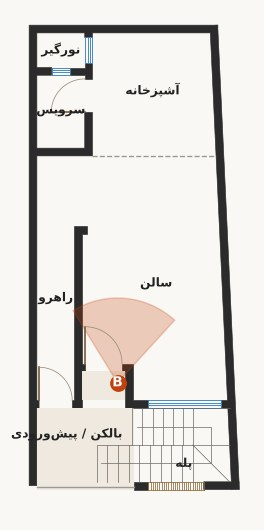
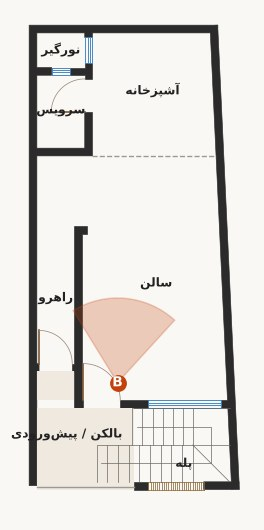
Karbala 5.70: recess the corridor door 1 m (living door back in place); corridor 102x585
Claude-Session: https://claude.ai/code/session_0113K5N22RNaozfHWJmS9D7A

diff --git a/karbala-570/index.html b/karbala-570/index.html
@@ -156,10 +156,10 @@ footer{padding:28px 0 calc(28px + env(safe-area-inset-bottom));color:var(--mut);
 const IMG='img/';
 const R={A:'r_A.jpg',B:'r_B.jpg',C:'r_C.jpg',D:'r_D.jpg',E:'r_E.jpg',F:'r_F.jpg',G:'r_G.jpg'};
 const FL={A:'1',B:'1',C:'1',D:'1',E:'1',F:'g',G:'g'};
-const CAM={A:[330,1200,330,300,74],B:[240,290,330,1240,74],C:[72,300,72,906,62],D:[95,932,75,1125,100],E:[280,10,60,221,96],F:[200,205,440,60,100],G:[60,28,200,230,100]};
+const CAM={A:[330,1200,330,300,74],B:[240,290,330,1240,74],C:[72,360,72,906,62],D:[95,932,75,1125,100],E:[280,10,60,221,96],F:[200,205,440,60,100],G:[60,28,200,230,100]};
 const ROOMS={g:[['entry',102,130],['corr',72,520],['liv',345,560],['kit',335,1085],['wc',86,1030],['well',86,1195],['stair',330,70],['wcs',482,120]],
  '1':[['bal',102,150],['corr',72,520],['liv',345,560],['kit',335,1085],['wc',86,1030],['well',86,1195],['stair',420,70]]};
-const RSUB={corr:'102 × 685',wc:'130 × 198',well:'130 × 94',bal:'264 × 221'};
+const RSUB={corr:'102 × 585',wc:'130 × 198',well:'130 × 94',bal:'264 × 221'};
 const RN={fa:{entry:'ورودی نیمهباز',corr:'راهرو',liv:'سالن',kit:'آشپزخانه',wc:'سرویس',well:'نورگیر',stair:'پله',wcs:'سرویس زیر پله',bal:'بالکن / پیشورودی',street:'خیابان / ورودی'},
  ar:{entry:'مدخل شبه مفتوح',corr:'الممر',liv:'الصالة',kit:'المطبخ',wc:'الحمّام',well:'المنور',stair:'الدرج',wcs:'حمّام تحت الدرج',bal:'الشرفة / ما قبل المدخل',street:'الشارع / المدخل'},
  en:{entry:'Semi-open entry',corr:'Corridor',liv:'Living',kit:'Kitchen',wc:'WC',well:'Light well',stair:'Stair',wcs:'WC under stair',bal:'Balcony / pre-entry',street:'Street / entrance'}};
@@ -182,12 +182,12 @@ fa:{dir:'rtl',name:'فارسی',brand:'ArchTverse · کربلا',title:'خانه
  nav:{facts:'در یک نگاه',plans:'پلانها',design:'زبان طراحی',views:'فضاهای داخلی',facade:'نما',model:'مدل سهبعدی'},
  facts_t:'پروژه در یک نگاه',facts:[['۵٫۷۰ × ۱۲٫۸۴','ابعاد زمین بیرونبهبیرون (متر)'],['۳ طبقه','همکف + طبقهٔ اول و دوم تیپ'],['۳۰۰ + ۲۰','کف تا زیر سقف + بتن سقف (سانتیمتر)'],['۲۱ سانت','ضخامت دیوارها (برداشت ۲۰ تا ۲۲)'],['۱ نما','فقط جبههٔ جلو؛ سمت چپ بدون همسایه'],['۱۷ پله','پلهٔ U شکل مرمر تا بام، با خرپشته']],
  plans_t:'پلانها',plans_s:'طبقه را انتخاب کنید و روی نقطههای دید بزنید.',pg:'همکف',p1:'طبقهٔ اول و دوم (تیپ)',
- pgL:['ورودی نیمهباز با درِ فلزی مشکی نردهای؛ درِ راهرو و درِ سالن که ۱ متر عقبتر در یک تورفتگی است','پلهٔ مرمر کنار نما با میلههای برنزی یکسره تا بام','سرویس زیر پله','راهرو ۱۰۲ سانتی که در انتها به سالن میچرخد','آشپزخانه، سرویس ۱۳۰ × ۱۹۸ و نورگیر ۱۳۰ × ۹۴ در عقب'],
- p1L:['بالکن / پیشورودی نیمهباز ۲۶۴ × ۲۲۱ با نردهٔ شیشهای ۱۱۰؛ درِ سالن ۱ متر عقبتر در تورفتگی','پنجرهٔ ۲ متری سالن رو به چاه پله','سالن با دیوار تلویزیون روی دیوار همسایه','آشپزخانهٔ L شکل با سرامیک تا سقف','درها ۲۸۰؛ پنجرههای داخلی از ۹۰ تا سقف'],
+ pgL:['ورودی نیمهباز با درِ فلزی مشکی نردهای؛ درِ سالن و درِ راهرو که ۱ متر عقبتر در یک تورفتگی است','پلهٔ مرمر کنار نما با میلههای برنزی یکسره تا بام','سرویس زیر پله','راهرو ۱۰۲ سانتی (۱ متر کوتاهتر بهخاطر تورفتگی در) که در انتها به سالن میچرخد','آشپزخانه، سرویس ۱۳۰ × ۱۹۸ و نورگیر ۱۳۰ × ۹۴ در عقب'],
+ p1L:['بالکن / پیشورودی نیمهباز ۲۶۴ × ۲۲۱ با نردهٔ شیشهای ۱۱۰؛ درِ راهرو ۱ متر عقبتر در تورفتگی','پنجرهٔ ۲ متری سالن رو به چاه پله','سالن با دیوار تلویزیون روی دیوار همسایه','آشپزخانهٔ L شکل با سرامیک تا سقف','درها ۲۸۰؛ پنجرههای داخلی از ۹۰ تا سقف'],
  legend:'نقطههای چشمکزن جای دید هر فضاست و مخروط، جهت نگاه را نشان میدهد؛ روی نقطه بزنید تا وارد همان زاویه شوید.',viewsOn:'فضاهای این طبقه:',
  design_t:'زبان طراحی: نئوکلاسیک گرم',design:[['فضاهای داخلی','دیوار سفید گرم و گریج، قاببندی ظریف فقط روی دیوارهای تأکیدی، کف سرامیک طرح مرمر ۶۰ × ۶۰'],['سقفها','سالن: سقف کاذب مستطیلی با گلویی و نور مخفی. آشپزخانه: سقف ساده با باکس جداکننده. سرویس: ۲۷۰'],['فضاهای نیمهباز','ورودی، پله و بالکن: سنگ، فلز برنزی تیره، سقف چوبی و نور توکار']],
  views_t:'فضاهای داخلی',views_s:'حرف هر فضا را بزنید یا تصویر را بکشید.',view:'دید',fl:{'1':'طبقهٔ اول','g':'همکف'},
- V:{A:['سالن','از آشپزخانه رو به جلو',['تلویزیون روی دیوار همسایه، بدون بازشو','پنجرهٔ ۲۰۰ سانتی رو به چاه پله','درِ ورودی ۱۰۰ × ۲۸۰ و دهانهٔ ۱۹۱ به راهرو']],B:['سالن و آشپزخانه','از ورودی رو به آشپزخانه',['آشپزخانه روی دیوار پشت و راست، سرامیک تا سقف','چپ: دهانهٔ راهرو، درِ سرویس، پنجرهٔ نورگیر','دیوار تلویزیون سمت راست']],C:['راهرو','۱۰۲ × ۶۸۵ سانت',['دو دیوار بسته با قاببندی یکسان','انتهای بسته؛ چرخش ۱۹۱ به سالن','نور مخفی دو طرف سقف']],D:['سرویس بهداشتی','۱۳۰ × ۱۹۸، سقف کاذب ۲۷۰',['سرامیک تا سقف با دیوار تأکیدی سنگی','پنجرهٔ ۵۰ × ۶۰ با کف ۱۹۵ رو به نورگیر','توالت والهنگ و روشویی گردو']],E:['بالکن / پیشورودی','نیمهباز، ۲۶۴ × ۲۲۱',['دو در: راهرو ۹۰ × ۲۸۰ و سالن ۱۰۰ × ۲۸۰ در تورفتگی ۱ متری','نردهٔ شیشهای ۱۱۰ رو به خیابان','دیوار سنگی، چراغ بیرونی، گیاه']],F:['پله و میلههای نما','فضای نیمهباز ورودی',['میلههای برنزی بدون شیشه، از ۲۴۰ تا بام','پلهٔ مرمر با دستانداز لولهای','سرویس زیر پله']],G:['ورودی','دو درِ کنار هم',['درِ راهرو و درِ سالن، گردو','پنجرهٔ ۱۲۰ رو به سالن زیر بازوی برگشت','دیوار سنگی، سرویس زیر پله']]},
+ V:{A:['سالن','از آشپزخانه رو به جلو',['تلویزیون روی دیوار همسایه، بدون بازشو','پنجرهٔ ۲۰۰ سانتی رو به چاه پله','درِ ورودی ۱۰۰ × ۲۸۰ و دهانهٔ ۱۹۱ به راهرو']],B:['سالن و آشپزخانه','از ورودی رو به آشپزخانه',['آشپزخانه روی دیوار پشت و راست، سرامیک تا سقف','چپ: دهانهٔ راهرو، درِ سرویس، پنجرهٔ نورگیر','دیوار تلویزیون سمت راست']],C:['راهرو','۱۰۲ × ۵۸۵ سانت',['دو دیوار بسته با قاببندی یکسان','انتهای بسته؛ چرخش ۱۹۱ به سالن','نور مخفی دو طرف سقف']],D:['سرویس بهداشتی','۱۳۰ × ۱۹۸، سقف کاذب ۲۷۰',['سرامیک تا سقف با دیوار تأکیدی سنگی','پنجرهٔ ۵۰ × ۶۰ با کف ۱۹۵ رو به نورگیر','توالت والهنگ و روشویی گردو']],E:['بالکن / پیشورودی','نیمهباز، ۲۶۴ × ۲۲۱',['دو در: سالن ۱۰۰ × ۲۸۰ و راهرو ۹۰ × ۲۸۰ در تورفتگی ۱ متری','نردهٔ شیشهای ۱۱۰ رو به خیابان','دیوار سنگی، چراغ بیرونی، گیاه']],F:['پله و میلههای نما','فضای نیمهباز ورودی',['میلههای برنزی بدون شیشه، از ۲۴۰ تا بام','پلهٔ مرمر با دستانداز لولهای','سرویس زیر پله']],G:['ورودی','دو درِ کنار هم',['درِ راهرو و درِ سالن، گردو','پنجرهٔ ۱۲۰ رو به سالن زیر بازوی برگشت','دیوار سنگی، سرویس زیر پله']]},
  facade_t:'نمای اصلی',facade_s:'همهٔ دهانهها و ابعاد از پلان؛ بین نقشه و سهرخ جابهجا شوید.',elev:'نقشهٔ نما',persp:'سهرخ',
  facade:['سنگ کرم گرم؛ قاب بالکنها تا بالای خرپشته با شیار نوری فرورفته','میلههای برنزی جلوی پله، بدون شیشه، از ۲۴۰ تا بام و برگشت روی خرپشته','پنل بالا: سنگهای ۱۵ سانتی، یکی در میان جلو و عقب','قاب همکف برجسته، سنگ افقی با بند ۱ سانتی، درِ ورودی فلزی مشکی نردهای ۲۸۰','خرپشته ۲۷۰ و جانپناه ۱۵۰'],facade_n:'بیرونزدگی قابها و ضخامت سنگ در دست تأیید است.',
  model_t:'مدل سهبعدی',model_s:'بچرخانید، زوم کنید، طبقهها را خاموش و روشن کنید؛ حالت «حجم + سایه» برای درک بهتر حجم.',load3d:'نمایش مدل سهبعدی',full:'تمامصفحه',
@@ -196,12 +196,12 @@ ar:{dir:'rtl',name:'العربية',brand:'ArchTverse · كربلاء',title:'م
  nav:{facts:'لمحة',plans:'المخططات',design:'لغة التصميم',views:'الفراغات',facade:'الواجهة',model:'النموذج'},
  facts_t:'المشروع في لمحة',facts:[['٥٫٧٠ × ١٢٫٨٤','أبعاد الأرض من الخارج (متر)'],['٣ طوابق','أرضي + طابق أول وثانٍ متكرران'],['٣٠٠ + ٢٠','من الأرضية إلى السقف + سماكة السقف (سم)'],['٢١ سم','سماكة الجدران (قياس ٢٠–٢٢)'],['واجهة واحدة','الأمامية فقط؛ الجهة اليسرى بلا جار'],['١٧ درجة','درج رخامي على شكل U حتى السطح مع غرفة درج']],
  plans_t:'المخططات',plans_s:'اختر الطابق واضغط على نقاط اللقطات.',pg:'الطابق الأرضي',p1:'الطابق الأول والثاني (متكرر)',
- pgL:['مدخل شبه مفتوح ببوابة معدنية سوداء بقضبان أفقية؛ باب الممر وباب الصالة المرتد ١ م في تجويف','درج رخامي بجانب الواجهة مع قضبان برونزية حتى السطح','حمّام تحت الدرج','ممر بعرض ١٠٢ سم ينعطف في نهايته نحو الصالة','المطبخ والحمّام ١٣٠ × ١٩٨ والمنور ١٣٠ × ٩٤ في الخلف'],
- p1L:['شرفة / ما قبل المدخل ٢٦٤ × ٢٢١ بدرابزين زجاجي ١١٠؛ باب الصالة مرتد ١ م','نافذة الصالة بعرض ٢ م على بئر الدرج','الصالة مع جدار التلفاز على الجدار المشترك','مطبخ على شكل L بسيراميك حتى السقف','الأبواب بارتفاع ٢٨٠؛ النوافذ الداخلية من ٩٠ حتى السقف'],
+ pgL:['مدخل شبه مفتوح ببوابة معدنية سوداء بقضبان أفقية؛ باب الصالة وباب الممر المرتد ١ م في تجويف','درج رخامي بجانب الواجهة مع قضبان برونزية حتى السطح','حمّام تحت الدرج','ممر بعرض ١٠٢ سم ينعطف في نهايته نحو الصالة','المطبخ والحمّام ١٣٠ × ١٩٨ والمنور ١٣٠ × ٩٤ في الخلف'],
+ p1L:['شرفة / ما قبل المدخل ٢٦٤ × ٢٢١ بدرابزين زجاجي ١١٠؛ باب الممر مرتد ١ م','نافذة الصالة بعرض ٢ م على بئر الدرج','الصالة مع جدار التلفاز على الجدار المشترك','مطبخ على شكل L بسيراميك حتى السقف','الأبواب بارتفاع ٢٨٠؛ النوافذ الداخلية من ٩٠ حتى السقف'],
  legend:'النقاط الوامضة هي مواقع اللقطات والمخروط يبيّن اتجاه النظر؛ اضغط على النقطة للدخول إلى تلك الزاوية.',viewsOn:'فراغات هذا الطابق:',
  design_t:'لغة التصميم: نيوكلاسيك دافئ',design:[['الفراغات الداخلية','جدران أبيض دافئ ورمادي بيج، كرانيش رفيعة على الجدران المميزة فقط، أرضيات سيراميك بنقشة رخام ٦٠ × ٦٠'],['الأسقف','الصالة: سقف مستعار بكورنيش وإضاءة مخفية. المطبخ: سقف بسيط مع بوكس فاصل. الحمّام: ٢٧٠'],['الفراغات شبه المفتوحة','المدخل والدرج والشرفة: حجر، معدن برونزي داكن، سقف خشبي وإنارة مدمجة']],
  views_t:'الفراغات الداخلية',views_s:'اضغط على حرف الفراغ أو اسحب الصورة.',view:'اللقطة',fl:{'1':'الطابق الأول','g':'الطابق الأرضي'},
- V:{A:['الصالة','من المطبخ باتجاه الأمام',['التلفاز على الجدار المشترك بلا فتحات','نافذة بعرض ٢٠٠ سم على بئر الدرج','باب المدخل ١٠٠ × ٢٨٠ وفتحة ١٩١ إلى الممر']],B:['الصالة والمطبخ','من المدخل باتجاه المطبخ',['المطبخ على الجدارين الخلفي والأيمن','يسارًا: فتحة الممر، باب الحمّام، نافذة المنور','جدار التلفاز على اليمين']],C:['الممر','١٠٢ × ٦٨٥ سم',['جداران مغلقان بكرانيش متطابقة','نهاية مغلقة؛ انعطاف ١٩١ نحو الصالة','إضاءة مخفية على جانبي السقف']],D:['الحمّام','١٣٠ × ١٩٨، سقف مستعار ٢٧٠',['سيراميك حتى السقف مع جدار حجري مميز','نافذة ٥٠ × ٦٠ بارتفاع جلسة ١٩٥','مرحاض معلق ومغسلة من خشب الجوز']],E:['الشرفة / ما قبل المدخل','شبه مفتوحة، ٢٦٤ × ٢٢١',['بابان: الممر ٩٠ × ٢٨٠ والصالة ١٠٠ × ٢٨٠ في تجويف ١ م','درابزين زجاجي ١١٠ باتجاه الشارع','جدار حجري، إنارة خارجية، نباتات']],F:['الدرج وقضبان الواجهة','فراغ المدخل شبه المفتوح',['قضبان برونزية بلا زجاج من ٢٤٠ حتى السطح','درج رخامي بدرابزين أنبوبي','حمّام تحت الدرج']],G:['المدخل','بابان متجاوران',['باب الممر وباب الصالة، خشب الجوز','نافذة ١٢٠ على الصالة','جدار حجري، حمّام تحت الدرج']]},
+ V:{A:['الصالة','من المطبخ باتجاه الأمام',['التلفاز على الجدار المشترك بلا فتحات','نافذة بعرض ٢٠٠ سم على بئر الدرج','باب المدخل ١٠٠ × ٢٨٠ وفتحة ١٩١ إلى الممر']],B:['الصالة والمطبخ','من المدخل باتجاه المطبخ',['المطبخ على الجدارين الخلفي والأيمن','يسارًا: فتحة الممر، باب الحمّام، نافذة المنور','جدار التلفاز على اليمين']],C:['الممر','١٠٢ × ٥٨٥ سم',['جداران مغلقان بكرانيش متطابقة','نهاية مغلقة؛ انعطاف ١٩١ نحو الصالة','إضاءة مخفية على جانبي السقف']],D:['الحمّام','١٣٠ × ١٩٨، سقف مستعار ٢٧٠',['سيراميك حتى السقف مع جدار حجري مميز','نافذة ٥٠ × ٦٠ بارتفاع جلسة ١٩٥','مرحاض معلق ومغسلة من خشب الجوز']],E:['الشرفة / ما قبل المدخل','شبه مفتوحة، ٢٦٤ × ٢٢١',['بابان: الصالة ١٠٠ × ٢٨٠ والممر ٩٠ × ٢٨٠ في تجويف ١ م','درابزين زجاجي ١١٠ باتجاه الشارع','جدار حجري، إنارة خارجية، نباتات']],F:['الدرج وقضبان الواجهة','فراغ المدخل شبه المفتوح',['قضبان برونزية بلا زجاج من ٢٤٠ حتى السطح','درج رخامي بدرابزين أنبوبي','حمّام تحت الدرج']],G:['المدخل','بابان متجاوران',['باب الممر وباب الصالة، خشب الجوز','نافذة ١٢٠ على الصالة','جدار حجري، حمّام تحت الدرج']]},
  facade_t:'الواجهة الرئيسية',facade_s:'جميع الفتحات والأبعاد من المخطط؛ بدّل بين المسقط والمنظور.',elev:'مسقط الواجهة',persp:'منظور',
  facade:['حجر كريمي دافئ؛ إطار الشرفات حتى أعلى غرفة الدرج مع شق إضاءة غائر','قضبان برونزية أمام الدرج بلا زجاج من ٢٤٠ حتى السطح','اللوح العلوي: شرائح رخام ١٥ سم بارزة وغائرة بالتناوب','إطار بارز للطابق الأرضي، رخام أفقي بفواصل ١ سم، بوابة معدنية سوداء ٢٨٠','غرفة الدرج ٢٧٠ والستارة ١٥٠'],facade_n:'بروز الإطارات وسماكة الرخام قيد التأكيد.',
  model_t:'النموذج ثلاثي الأبعاد',model_s:'دوّر، كبّر، أظهر وأخفِ الطوابق؛ وضع «كتلة + ظلال» لفهم الكتلة بشكل أفضل.',load3d:'عرض النموذج ثلاثي الأبعاد',full:'ملء الشاشة',
@@ -210,12 +210,12 @@ en:{dir:'ltr',name:'English',brand:'ArchTverse · Karbala',title:'House 5.70 × 
  nav:{facts:'Overview',plans:'Plans',design:'Design',views:'Interiors',facade:'Facade',model:'3D'},
  facts_t:'Project at a glance',facts:[['5.70 × 12.84','Plot, outside to outside (m)'],['3 floors','Ground + typical first and second'],['300 + 20','Floor to ceiling + slab (cm)'],['21 cm','Wall thickness (measured 20–22)'],['1 facade','Front only; left side has no neighbour'],['17 steps','Marble U-stair to the roof, with stair-head']],
  plans_t:'Plans',plans_s:'Pick a floor and tap the view points.',pg:'Ground floor',p1:'First & second floor (typical)',
- pgL:['Semi-open entrance: black metal bar gate; corridor door and living door set 1 m back in a niche','Marble stair along the facade with bronze bars up to the roof','WC under the stair','102 cm corridor turning into the living room at its end','Kitchen, WC 130 × 198 and light well 130 × 94 at the back'],
- p1L:['Balcony / pre-entry 264 × 221, 110 glass railing; living door set 1 m back','2 m living-room window onto the stairwell','Living room with the TV on the party wall','L-shaped kitchen, ceramic to the ceiling','Doors 280 high; interior windows from 90 to the ceiling'],
+ pgL:['Semi-open entrance: black metal bar gate; living door, and corridor door set 1 m back in a niche','Marble stair along the facade with bronze bars up to the roof','WC under the stair','102 cm corridor turning into the living room at its end','Kitchen, WC 130 × 198 and light well 130 × 94 at the back'],
+ p1L:['Balcony / pre-entry 264 × 221, 110 glass railing; corridor door set 1 m back','2 m living-room window onto the stairwell','Living room with the TV on the party wall','L-shaped kitchen, ceramic to the ceiling','Doors 280 high; interior windows from 90 to the ceiling'],
  legend:'Blinking points mark each view and the cone shows where it looks; tap a point to step into that view.',viewsOn:'Spaces on this floor:',
  design_t:'Design language: warm neoclassical',design:[['Interiors','Warm white and greige walls, slim mouldings on feature walls only, 60 × 60 marble-look porcelain floors'],['Ceilings','Living: tray ceiling with cornice and hidden light. Kitchen: simple ceiling with a bulkhead. WC: 270'],['Semi-open spaces','Entrance, stair and balcony: stone, dark-bronze metal, wood soffits with recessed lights']],
  views_t:'Interiors',views_s:'Tap a letter or swipe the image.',view:'View',fl:{'1':'First floor','g':'Ground floor'},
- V:{A:['Living room','From the kitchen toward the front',['TV on the party wall, no openings','200 cm window onto the stairwell','Entrance door 100 × 280, 191 opening to the corridor']],B:['Living & kitchen','From the entrance toward the kitchen',['Kitchen on the back and right walls','Left: corridor opening, WC door, light-well window','TV wall on the right']],C:['Corridor','102 × 685 cm',['Two closed walls with matching mouldings','Closed end; 191 turn into the living room','Hidden cove light along both ceiling edges']],D:['WC','130 × 198, false ceiling 270',['Ceramic to the ceiling with a stone accent wall','50 × 60 window, sill 195, onto the light well','Wall-hung WC and walnut vanity']],E:['Balcony / pre-entry','Semi-open, 264 × 221',['Two doors: corridor 90 × 280, living 100 × 280 in a 1 m niche','110 cm glass railing to the street','Stone wall, outdoor lantern, planting']],F:['Stair & facade bars','Semi-open entrance space',['Bronze bars, no glass, from 240 up to the roof','Marble stair with a tubular handrail','WC under the stair']],G:['Entrance','Two side-by-side doors',['Corridor and living doors in walnut','120 window to the living room','Stone walls, WC under the stair']]},
+ V:{A:['Living room','From the kitchen toward the front',['TV on the party wall, no openings','200 cm window onto the stairwell','Entrance door 100 × 280, 191 opening to the corridor']],B:['Living & kitchen','From the entrance toward the kitchen',['Kitchen on the back and right walls','Left: corridor opening, WC door, light-well window','TV wall on the right']],C:['Corridor','102 × 585 cm',['Two closed walls with matching mouldings','Closed end; 191 turn into the living room','Hidden cove light along both ceiling edges']],D:['WC','130 × 198, false ceiling 270',['Ceramic to the ceiling with a stone accent wall','50 × 60 window, sill 195, onto the light well','Wall-hung WC and walnut vanity']],E:['Balcony / pre-entry','Semi-open, 264 × 221',['Two doors: living 100 × 280, corridor 90 × 280 in a 1 m niche','110 cm glass railing to the street','Stone wall, outdoor lantern, planting']],F:['Stair & facade bars','Semi-open entrance space',['Bronze bars, no glass, from 240 up to the roof','Marble stair with a tubular handrail','WC under the stair']],G:['Entrance','Two side-by-side doors',['Corridor and living doors in walnut','120 window to the living room','Stone walls, WC under the stair']]},
  facade_t:'Main facade',facade_s:'All openings and dimensions from the plan; switch between elevation and 3/4 view.',elev:'Elevation',persp:'3/4 view',
  facade:['Warm cream stone; balcony frame up to the stair-head with a recessed LED groove','Bronze bars in front of the stair, no glass, from 240 to the roof','Upper panel: 15 cm marble strips, alternately set in and out','Projecting ground-floor frame, horizontal stone with 1 cm joints, 280 black metal bar gate','Stair-head 270, parapet 150'],facade_n:'Frame projection and stone thickness to be confirmed.',
  model_t:'3D model',model_s:'Orbit, zoom, switch floors on and off; use “Volume + shadow” to read the massing.',load3d:'Show the 3D model',full:'Full screen',
@@ -260,7 +260,7 @@ function render(){
   <section id="model"><div class="wrap"><h2>${t.model_t}</h2><p class="sub">${t.model_s}</p>
     <div class="frame3d" id="f3d" style="background-image:url(${IMG}model3d.jpg)"><div class="start"><button class="btn" id="go3d">${t.load3d}</button></div></div>
     <div class="cta" style="margin-top:12px"><a class="btn ghost" href="model3d.html?lang=${L}">${t.full} ⤢</a></div></div></section>
-  <footer><div class="wrap">${t.foot} · v6</div></footer>`;
+  <footer><div class="wrap">${t.foot} · v7</div></footer>`;
   $('#sheet').innerHTML=`<div style="display:flex;justify-content:space-between;align-items:center;margin-bottom:6px"><b>${t.set}</b><button class="ib" data-close>${t.close}</button></div>
     <div class="srow"><span>${t.lang}</span><div class="seg">${Object.keys(TX).map(k=>`<button data-setlang="${k}" class="${k===L?'on':''}">${TX[k].name}</button>`).join('')}</div></div>
     <div class="srow"><span>${t.theme}</span><div class="seg"><button data-theme="dark" class="${theme==='dark'?'on':''}">${t.dark}</button><button data-theme="light" class="${theme==='light'?'on':''}">${t.light}</button></div></div>
